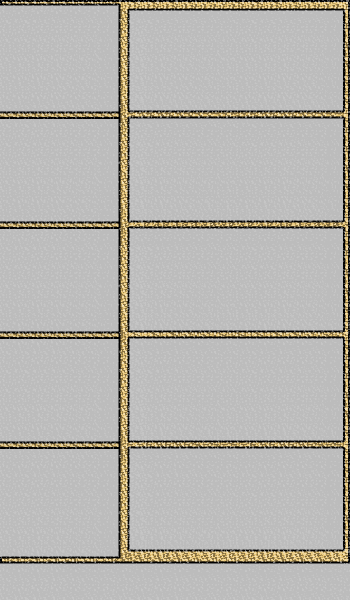
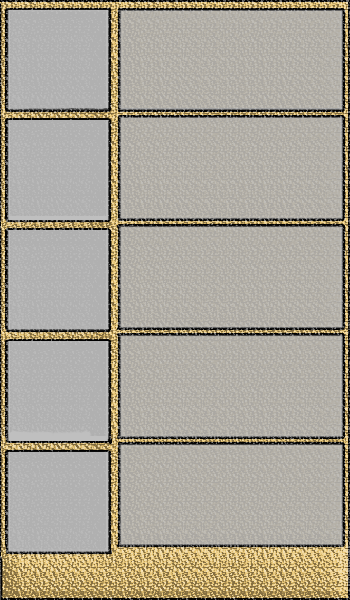
initial commit

diff --git a/Farm Clicker/farm_clicker.py b/Farm Clicker/farm_clicker.py
@@ -56,15 +56,15 @@ screen.blit(farm_bg, (0, 0))
 screen.blit(coin_bg, (SCREEN_WIDTH//1.2, 10))
 
 # Создание кнопки
-button_rect1 = pygame.Rect(10, 9, BUTTON_WIDTH, BUTTON_HEIGHT)
+button_rect1 = pygame.Rect(8, 9, BUTTON_WIDTH, BUTTON_HEIGHT)
 screen.blit(image1, button_rect1)
-button_rect2 = pygame.Rect(10, 120, BUTTON_WIDTH, BUTTON_HEIGHT)
+button_rect2 = pygame.Rect(8, 120, BUTTON_WIDTH, BUTTON_HEIGHT)
 screen.blit(image2, button_rect2)
-button_rect3 = pygame.Rect(10, 230, BUTTON_WIDTH, BUTTON_HEIGHT)
+button_rect3 = pygame.Rect(8, 230, BUTTON_WIDTH, BUTTON_HEIGHT)
 screen.blit(image3, button_rect3)
-button_rect4 = pygame.Rect(10, 340, BUTTON_WIDTH, BUTTON_HEIGHT)
+button_rect4 = pygame.Rect(8, 341, BUTTON_WIDTH, BUTTON_HEIGHT)
 screen.blit(image4, button_rect4)
-button_rect5 = pygame.Rect(10, 452, BUTTON_WIDTH, BUTTON_HEIGHT)
+button_rect5 = pygame.Rect(8, 452, BUTTON_WIDTH, BUTTON_HEIGHT)
 screen.blit(image5, button_rect5)
 
 screen.blit(coin_image, (SCREEN_WIDTH//1.2, 10))
@@ -107,7 +107,7 @@ screen.blit(house1_label, (button_rect1.x+125, button_rect1.y+40))
 house1_label = font.render(f"Стоимость: {house1_curprice}", True, (241, 221, 56))
 screen.blit(house1_label_border3, (button_rect1.x+129-border_size, button_rect1.y+74-border_size))
 screen.blit(house1_label, (button_rect1.x+125, button_rect1.y+70))
-#####################
+###################################################################################################
 house2_label = font.render(f"Кол-во: {house2_count}", True, (241, 221, 56))
 screen.blit(house1_label_border4, (button_rect2.x+129-border_size, button_rect2.y+14-border_size))
 screen.blit(house2_label, (button_rect2.x+125, button_rect2.y+10))
@@ -117,7 +117,7 @@ screen.blit(house2_label, (button_rect2.x+125, button_rect2.y+40))
 house2_label = font.render(f"Стоимость: {house2_curprice}", True, (241, 221, 56))
 screen.blit(house1_label_border6, (button_rect2.x+129-border_size, button_rect2.y+74-border_size))
 screen.blit(house2_label, (button_rect2.x+125, button_rect2.y+70))
-#####################
+###################################################################################################
 house3_label = font.render(f"Кол-во: {house3_count}", True, (241, 221, 56))
 screen.blit(house1_label_border7, (button_rect3.x+129-border_size, button_rect3.y+14-border_size))
 screen.blit(house3_label, (button_rect3.x+125, button_rect3.y+10))
@@ -127,27 +127,29 @@ screen.blit(house3_label, (button_rect3.x+125, button_rect3.y+40))
 house3_label = font.render(f"Стоимость: {house3_curprice}", True, (241, 221, 56))
 screen.blit(house1_label_border9, (button_rect3.x+129-border_size, button_rect3.y+74-border_size))
 screen.blit(house3_label, (button_rect3.x+125, button_rect3.y+70))
-#####################
+###################################################################################################
 house4_label = font.render(f"Кол-во: {house4_count}", True, (241, 221, 56))
-screen.blit(house1_label_border10, (button_rect4.x+129-border_size, button_rect4.y+14-border_size))
+screen.blit(house1_label_border10, (button_rect4.x+129-border_size, button_rect4.y+14.5-border_size))
 screen.blit(house4_label, (button_rect4.x+125, button_rect4.y+10))
 house4_label = font.render(f"Сум. добыча: {house4_earnings}", True, (241, 221, 56))
-screen.blit(house1_label_border11, (button_rect4.x+129-border_size, button_rect4.y+44-border_size))
+screen.blit(house1_label_border11, (button_rect4.x+129-border_size, button_rect4.y+44.5-border_size))
 screen.blit(house4_label, (button_rect4.x+125, button_rect4.y+40))
 house4_label = font.render(f"Стоимость: {house4_curprice}", True, (241, 221, 56))
-screen.blit(house1_label_border12, (button_rect4.x+129-border_size, button_rect4.y+74-border_size))
+screen.blit(house1_label_border12, (button_rect4.x+129-border_size, button_rect4.y+74.5-border_size))
 screen.blit(house4_label, (button_rect4.x+125, button_rect4.y+70))
-#####################
+###################################################################################################
 house5_label = font.render(f"Кол-во: {house5_count}", True, (241, 221, 56))
-screen.blit(house1_label_border13, (button_rect5.x+129-border_size, button_rect5.y+14-border_size))
-screen.blit(house5_label, (button_rect5.x+125, button_rect5.y+10))
+screen.blit(house1_label_border13, (button_rect5.x+129-border_size, button_rect5.y+11.5-border_size))
+screen.blit(house5_label, (button_rect5.x+125, button_rect5.y+7))
 house5_label = font.render(f"Сум. добыча: {house5_earnings}", True, (241, 221, 56))
-screen.blit(house1_label_border14, (button_rect5.x+129-border_size, button_rect5.y+44-border_size))
-screen.blit(house5_label, (button_rect5.x+125, button_rect5.y+40))
+screen.blit(house1_label_border14, (button_rect5.x+129-border_size, button_rect5.y+41.5-border_size))
+screen.blit(house5_label, (button_rect5.x+125, button_rect5.y+37))
 house5_label = font.render(f"Стоимость: {house5_curprice}", True, (241, 221, 56))
-screen.blit(house1_label_border15, (button_rect5.x+129-border_size, button_rect5.y+74-border_size))
-screen.blit(house5_label, (button_rect5.x+125, button_rect5.y+70))
-#####################
+screen.blit(house1_label_border15, (button_rect5.x+129-border_size, button_rect5.y+71.5-border_size))
+screen.blit(house5_label, (button_rect5.x+125, button_rect5.y+67))
+###################################################################################################
+###################################################################################################
+###################################################################################################
 
 running = True
 while running:
